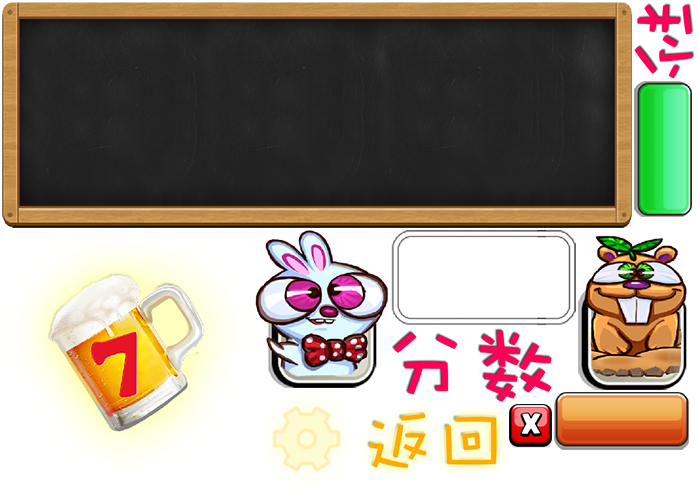
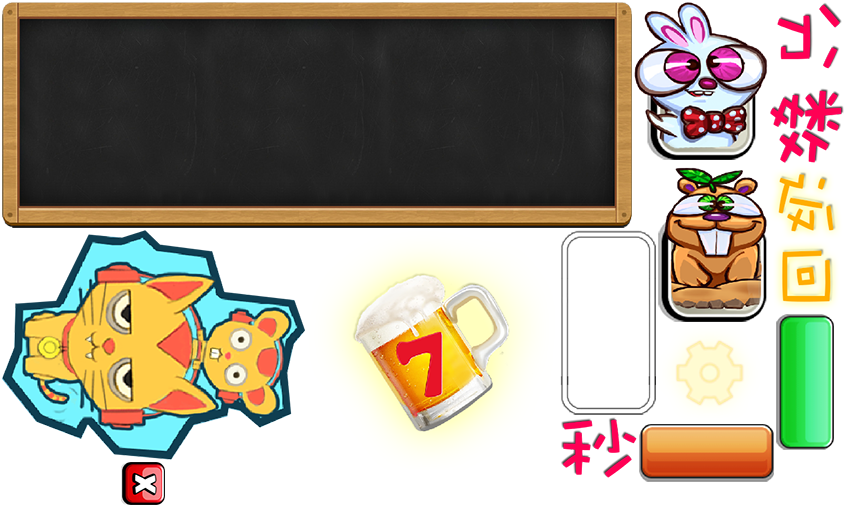
no message

diff --git a/src/count7.js b/src/count7.js
@@ -24,7 +24,8 @@ var Count7Player = cc.Sprite.extend({
         this._name = Game_Constraint.Count7Names[sequenceId];
         this._nameLabel = new cc.LabelTTF(this._name);
         this._nameLabel.setFontFillColor(cc.color(255,237,191));
-        this._nameLabel.setFontSize(30);
+        this._nameLabel.setFontSize(20);
+        this._nameLabel.setPosition(100,20);
         this.addChild(this._nameLabel);
     },
 
@@ -77,8 +78,8 @@ var Count7Layer = cc.Layer.extend({
                 player = new Count7Player(true, i);
             }
             player.setPosition(Game_Constraint.Count7Positions[i].x+winSize.width/2,Game_Constraint.Count7Positions[i].y+winSize.height/2);
-            player.setScale(0)
-            var catDelay = cc.delayTime(2.8+i*0.2);
+            player.setScale(0);
+            var catDelay = cc.delayTime(4.2+i*0.2);
             var catAct1 = cc.scaleTo(0.3,1.15);
             var catAct2 = cc.scaleTo(0.1,1);
             var catAct9 = cc.sequence(catDelay,catAct1,catAct2);
@@ -87,6 +88,35 @@ var Count7Layer = cc.Layer.extend({
             this.players.push(player);
         }
     },
+
+    startBtnTouchEvent:function(sender,type){
+
+        if(type==ccui.Widget.TOUCH_ENDED){
+            sender.setVisible(false);
+        }
+    },
+
+    initStartButton:function(){
+
+        var winSize = cc.director.getWinSize();
+        //back button
+        this.startBtn = new ccui.Button();
+        this.startBtn.loadTextures("Shu7_0012.png","","",ccui.Widget.PLIST_TEXTURE);
+        this.startBtn.setPosition(winSize.width/2,winSize.height/2-70);
+        this.addChild(this.startBtn,1);
+        this.startBtn.addTouchEventListener(this.startBtnTouchEvent ,this);
+        var text = new cc.Sprite(cc.spriteFrameCache.getSpriteFrame("Shu7_0010.png"));
+        text.setPosition(this.startBtn.getContentSize().width/2,this.startBtn.getContentSize().height/2);
+        this.startBtn.addChild(text);
+        this.startBtn.setScale(0);
+
+        var startBtnAct1 = cc.delayTime(6.5);
+        var startBtnAct2 = cc.scaleTo(0.1,1.2);
+        var startBtnAct3 = cc.scaleTo(0.1,1);
+        var startBtnAct4 = cc.sequence(startBtnAct1,startBtnAct2,startBtnAct3);
+        this.startBtn.runAction(startBtnAct4);
+    },
+
 
     btnBackBtnTouchEvent: function (sender, type) {
 
@@ -139,7 +169,7 @@ var Count7Layer = cc.Layer.extend({
         var count7Logo = new cc.Sprite(cc.spriteFrameCache.getSpriteFrame("Main_0006.png"));
         count7Logo.setAnchorPoint(0,0.5);
         count7Logo.setPosition(-800,bg.getContentSize().height-150);
-        var delay = cc.delayTime(0.3)
+        var delay = cc.delayTime(0.3);
         var move1 = cc.moveTo(1, cc.p(110,bg.getContentSize().height-150));
         var moveMore1 = cc.moveBy(0.2,cc.p(-40,0));
         var move_ease_inout1 = move1.easing(cc.easeInOut(3.0));
@@ -147,22 +177,41 @@ var Count7Layer = cc.Layer.extend({
         count7Logo.runAction(logoMoveAct);
         this.addChild(count7Logo);
 
-        //cat
+        //catBg
         this.catBg = new cc.Sprite(res.Count7Cat);
         this.catBg.setPosition(bg.getContentSize().width/2,bg.getContentSize().height/2);
         this.catBg.setScale(0);
-        var catDelay = cc.delayTime(1.6);
-        var catAct1 = cc.scaleTo(0.3,1.15);
-        var catAct2 = cc.scaleTo(0.1,1);
-        var catAct3 = cc.scaleTo(0.1,1.1);
-        var catAct6 = cc.scaleTo(0.1,1);
-        var catAct7 = cc.scaleTo(0.1,1.05);
-        var catAct8 = cc.scaleTo(0.1,1);
-        var catAct9 = cc.sequence(catDelay,catAct1,catAct2,catAct3,catAct6,catAct7,catAct8);
-        this.catBg.runAction(catAct9);
+        var catbgDelay = cc.delayTime(1.6);
+        var catbgAct1 = cc.scaleTo(0.3,1.15);
+        var catbgAct2 = cc.scaleTo(0.1,1);
+        var catbgAct3 = cc.scaleTo(0.1,1.1);
+        var catbgAct6 = cc.scaleTo(0.1,1);
+        var catbgAct7 = cc.scaleTo(0.1,1.05);
+        var catbgAct8 = cc.scaleTo(0.1,1);
+        var catbgAct9 = cc.sequence(catbgDelay,catbgAct1,catbgAct2,catbgAct3,catbgAct6,catbgAct7,catbgAct8);
+        this.catBg.runAction(catbgAct9);
         this.addChild(this.catBg);
 
+        //cat
+        this.cat  = new cc.Sprite(cc.spriteFrameCache.getSpriteFrame("Shu7_0000_maomi.png"));
+        this.cat.setAnchorPoint(0.5,0.4);
+        this.cat.setPosition(bg.getContentSize().width/2,bg.getContentSize().height/2);
+        this.cat.setScale(0);
+        this.addChild(this.cat);
+        var catDelay = cc.delayTime(2.6);
+        var catAct0 = cc.scaleTo(0.1,1);
+        var catAct3 = cc.rotateTo(0.12,20);
+        var catAct6 = cc.rotateTo(0.12,-20);
+        var catAct7 = cc.rotateTo(0.12,10);
+        var catAct8 = cc.rotateTo(0.12,-10);
+        var catAct9 = cc.rotateTo(0.12,0);
+        var catAct10 = cc.sequence(catAct3,catAct6,catAct7,catAct8,catAct9);
+        var catAct11 = cc.spawn(catAct0,catAct10);
+        var catAct12 = cc.sequence(catDelay,catAct11);
+        this.cat.runAction(catAct12);
+
         this.initPlayers();
+        this.initStartButton();
     }
 });
 
